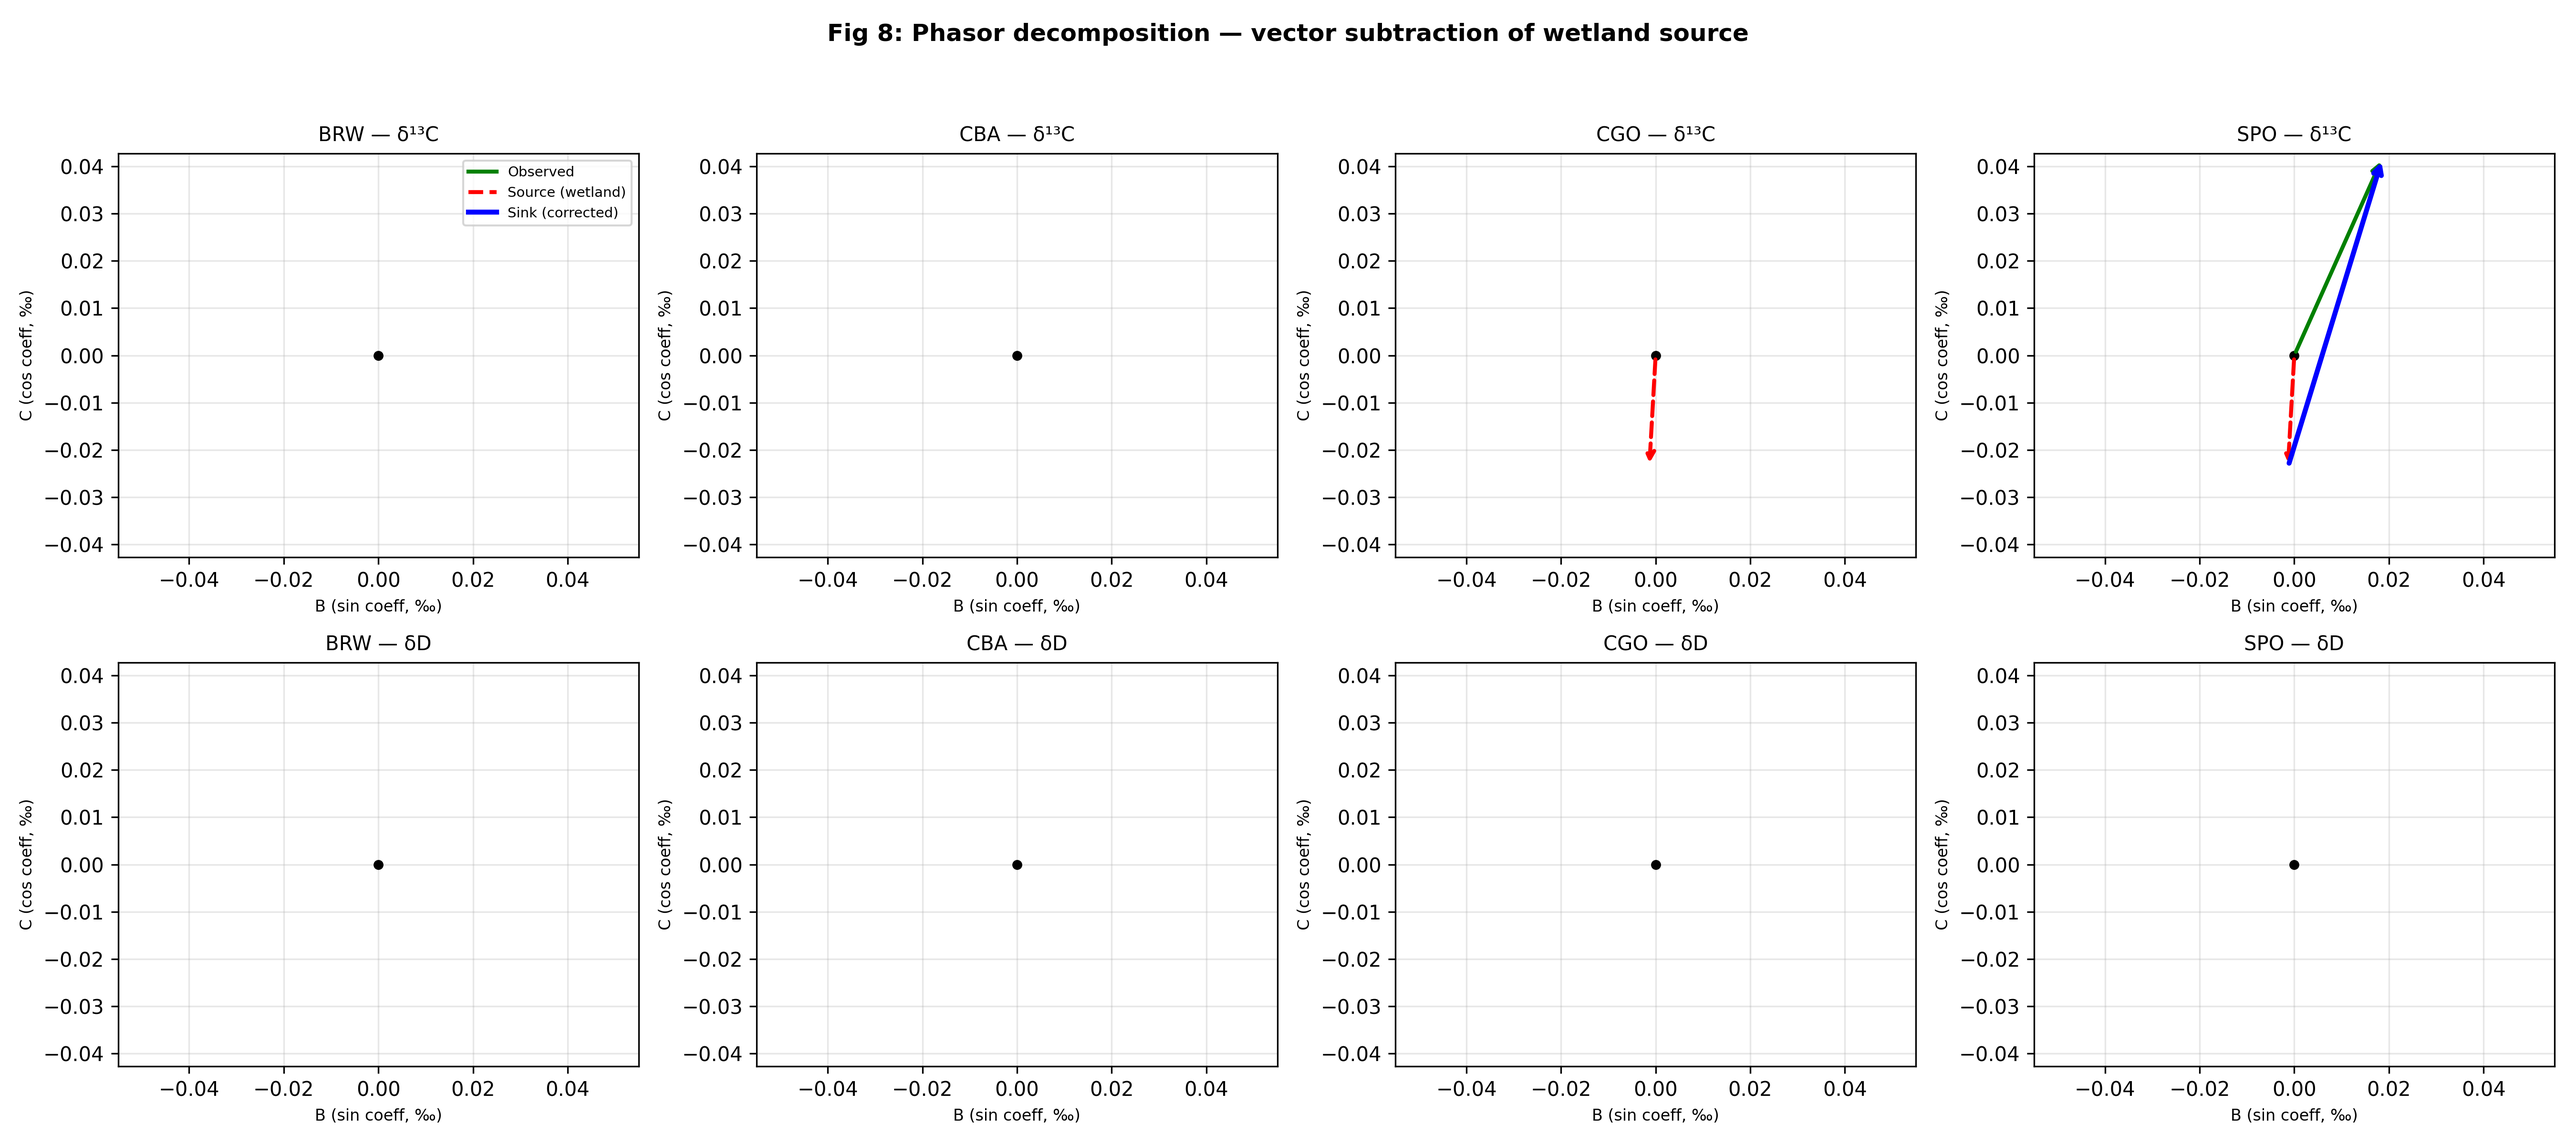
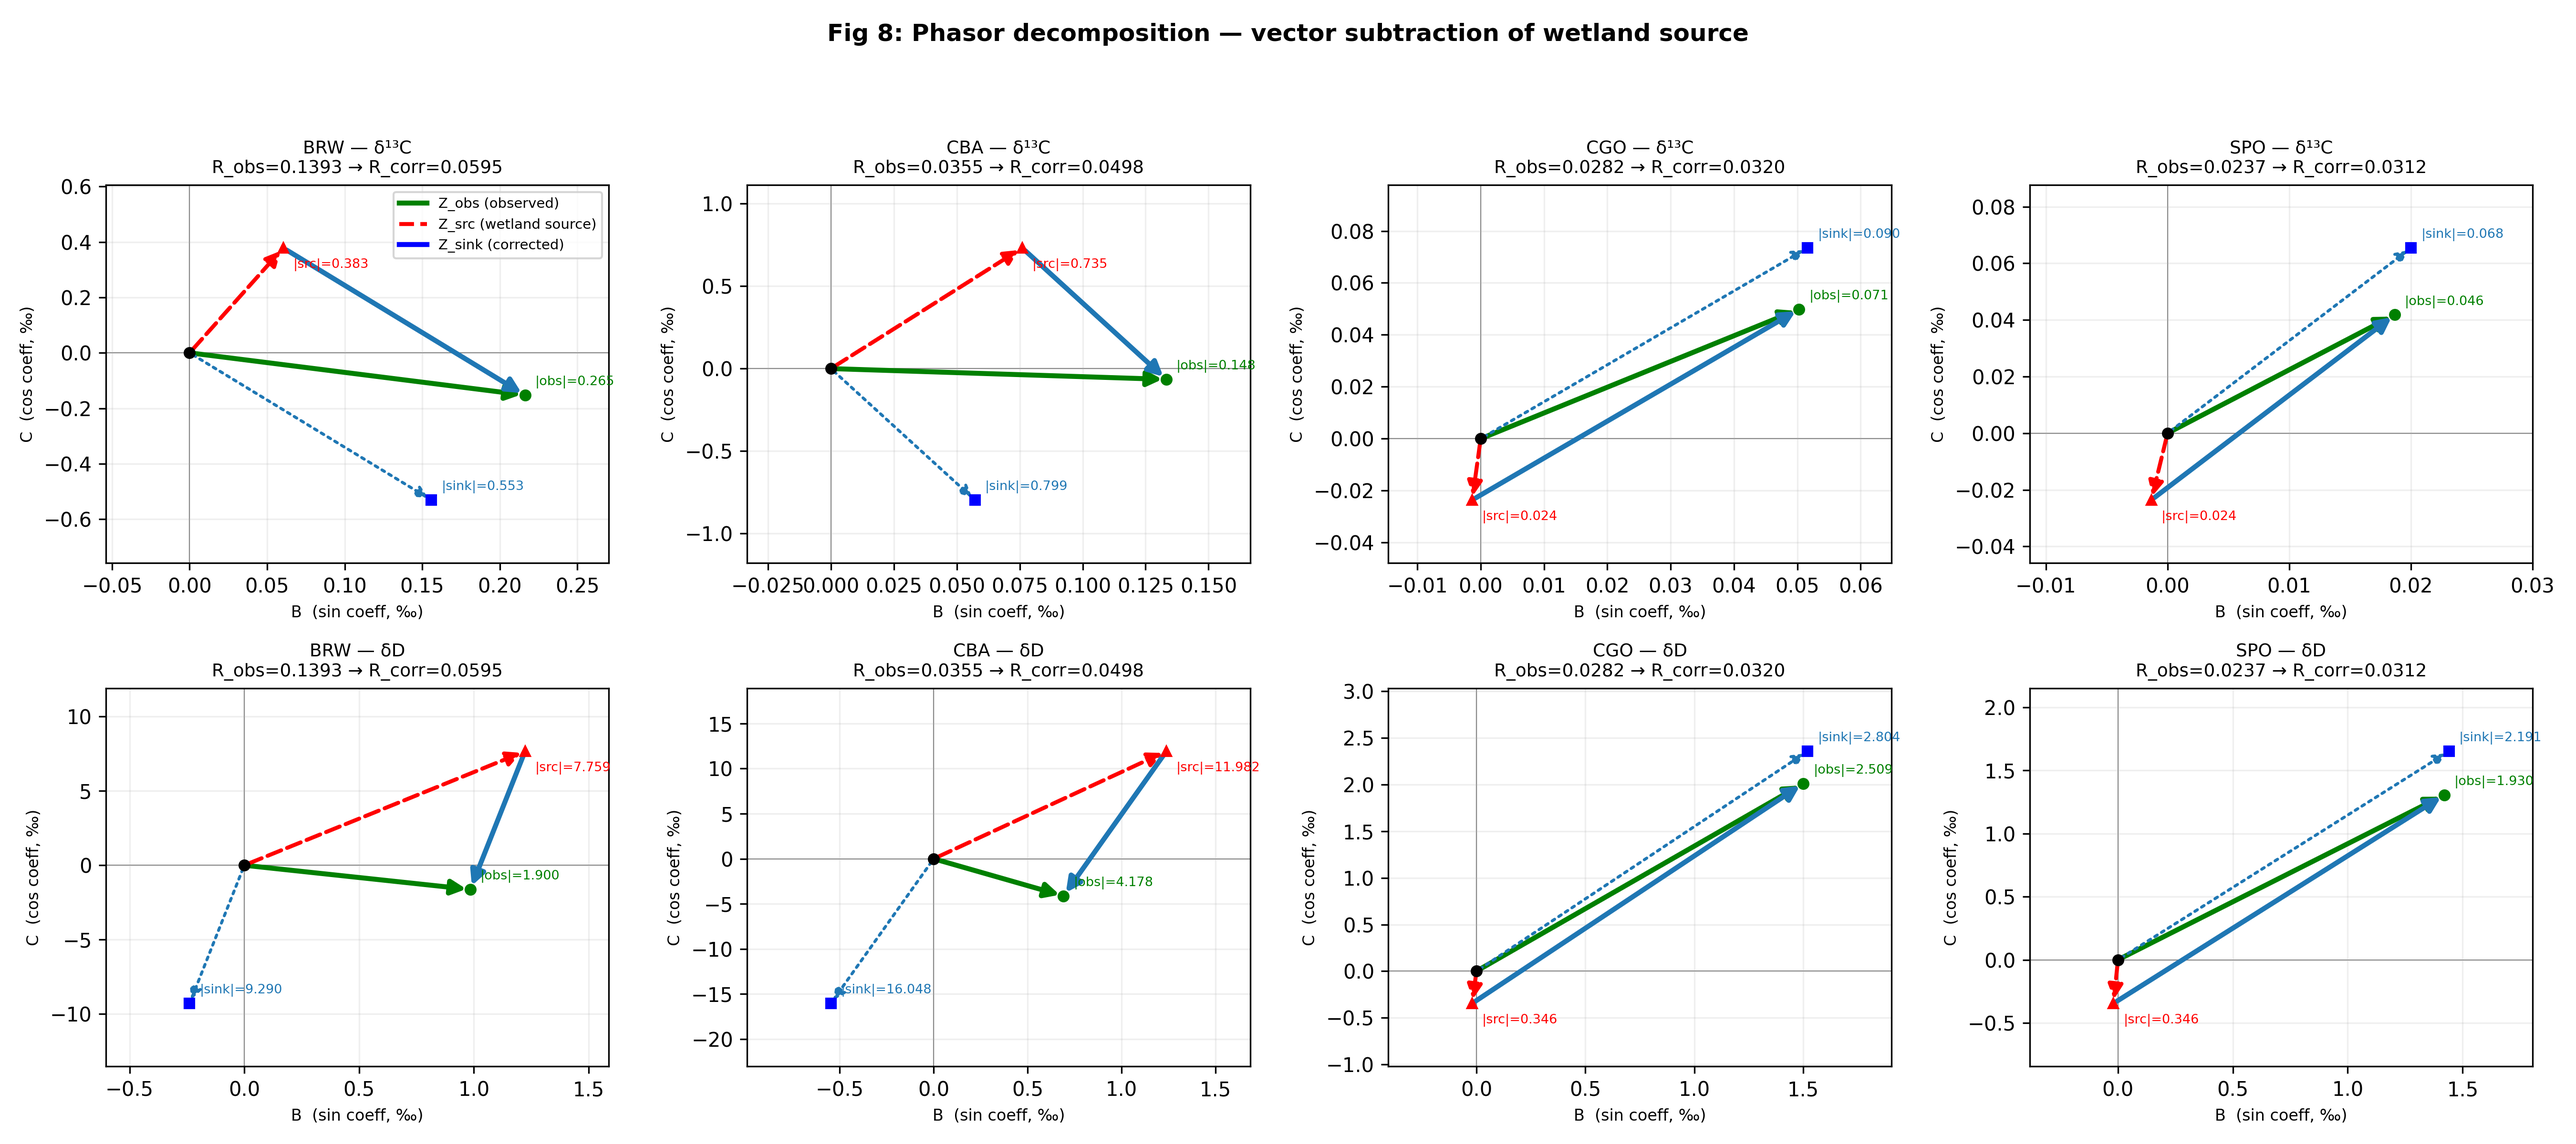
Fix fig8 phasor diagram: auto-scale axes per panel, show all vectors
Old version: set_aspect('equal') forced identical x/y scale, making most
vectors invisible (NH δD sink ~9‰ but axes locked to ±0.04‰).
Fix: remove equal aspect, auto-scale each panel to fit all vector endpoints
with padding, add amplitude labels at vector tips, show R_obs→R_corr in title.

diff --git a/experiments/KIE_sites/analysis/phase6_phasor.py b/experiments/KIE_sites/analysis/phase6_phasor.py
@@ -573,7 +573,14 @@ def main():
 # FIGURE 8: PHASOR VECTOR DIAGRAMS
 # ============================================================================
 def plot_phasor_diagrams(results):
-    """Fig 8: Phasor decomposition for 4 representative sites."""
+    """Fig 8: Phasor decomposition for 4 representative sites.
+
+    Each panel shows three vectors from origin:
+      green  = Z_obs   (observed)
+      red    = Z_src   (wetland source)
+      blue   = Z_sink  (corrected = obs − src), also shown from src tip to obs tip
+    Axes are auto-scaled per panel to fit all vectors.
+    """
     show_sites = ["BRW", "CBA", "CGO", "SPO"]
     available = [s for s in show_sites if s in results["sites"]]
     n = len(available)
@@ -594,42 +601,74 @@ def plot_phasor_diagrams(results):
             Z_src  = s[f"Z_src_{iso}"]
             Z_sink = s[f"Z_sink_{iso}"]
 
-            # Plot vectors: origin → source, source → observed (= sink vector at source tip)
-            # Or equivalently: origin → obs (green), origin → src (red), origin → sink (blue)
-            ox, oy = 0, 0
+            # Collect all endpoints to determine axis limits
+            all_x = [0, Z_obs[0], Z_src[0], Z_sink[0]]
+            all_y = [0, Z_obs[1], Z_src[1], Z_sink[1]]
+            pad_x = max(0.01, (max(all_x) - min(all_x)) * 0.25)
+            pad_y = max(0.01, (max(all_y) - min(all_y)) * 0.25)
 
-            # Observed (green)
-            ax.annotate("", xy=Z_obs, xytext=(ox, oy),
-                        arrowprops=dict(arrowstyle="->", color="green", lw=2))
-            # Source (red)
-            ax.annotate("", xy=Z_src, xytext=(ox, oy),
-                        arrowprops=dict(arrowstyle="->", color="red", lw=2, ls="--"))
-            # Sink = obs − src (blue): from src tip to obs tip
+            # ── Draw vectors as arrows ──
+            hw = 0.04   # relative head width
+
+            # Observed (green): origin → obs
+            ax.annotate("", xy=Z_obs, xytext=(0, 0),
+                        arrowprops=dict(arrowstyle="-|>", color="green", lw=2.5,
+                                        mutation_scale=15))
+            # Source (red dashed): origin → src
+            ax.annotate("", xy=Z_src, xytext=(0, 0),
+                        arrowprops=dict(arrowstyle="-|>", color="red", lw=2,
+                                        mutation_scale=15, linestyle="dashed"))
+            # Sink from origin (blue dotted): origin → sink
+            ax.annotate("", xy=Z_sink, xytext=(0, 0),
+                        arrowprops=dict(arrowstyle="-|>", color="C0", lw=1.5,
+                                        mutation_scale=12, linestyle="dotted"))
+            # Sink as vector addition (blue solid): src tip → obs tip
+            # This shows Z_obs = Z_src + Z_sink visually
             ax.annotate("", xy=Z_obs, xytext=Z_src,
-                        arrowprops=dict(arrowstyle="->", color="blue", lw=2.5))
-            # Also show sink from origin (for clarity)
-            ax.annotate("", xy=Z_sink, xytext=(ox, oy),
-                        arrowprops=dict(arrowstyle="->", color="blue", lw=1.5, ls=":"))
+                        arrowprops=dict(arrowstyle="-|>", color="C0", lw=2.5,
+                                        mutation_scale=15))
 
-            ax.plot(0, 0, "ko", ms=4)
+            # Dot labels at vector tips
+            ax.plot(*Z_obs,  "go", ms=5, zorder=5)
+            ax.plot(*Z_src,  "r^", ms=5, zorder=5)
+            ax.plot(*Z_sink, "bs", ms=5, zorder=5)
+            ax.plot(0, 0, "ko", ms=5, zorder=5)
 
-            # Labels
-            ax.set_xlabel("B (sin coeff, ‰)", fontsize=8)
-            ax.set_ylabel("C (cos coeff, ‰)", fontsize=8)
-            ax.set_title(f"{code} — {label}", fontsize=10)
-            ax.set_aspect("equal", adjustable="datalim")
-            ax.grid(True, alpha=0.3)
+            # Annotate amplitudes
+            A_obs  = np.sqrt(Z_obs[0]**2  + Z_obs[1]**2)
+            A_src  = np.sqrt(Z_src[0]**2  + Z_src[1]**2)
+            A_sink = np.sqrt(Z_sink[0]**2 + Z_sink[1]**2)
 
-            # Legend entries
+            ax.annotate(f"|obs|={A_obs:.3f}", xy=Z_obs, fontsize=6.5,
+                        textcoords="offset points", xytext=(5, 5), color="green")
+            if A_src > 1e-4:
+                ax.annotate(f"|src|={A_src:.3f}", xy=Z_src, fontsize=6.5,
+                            textcoords="offset points", xytext=(5, -10), color="red")
+            ax.annotate(f"|sink|={A_sink:.3f}", xy=Z_sink, fontsize=6.5,
+                        textcoords="offset points", xytext=(5, 5), color="C0")
+
+            # Axis setup — scale to data, NOT equal aspect
+            ax.set_xlim(min(all_x) - pad_x, max(all_x) + pad_x)
+            ax.set_ylim(min(all_y) - pad_y, max(all_y) + pad_y)
+            ax.axhline(0, color="gray", lw=0.5, zorder=0)
+            ax.axvline(0, color="gray", lw=0.5, zorder=0)
+            ax.set_xlabel("B  (sin coeff, ‰)", fontsize=8)
+            ax.set_ylabel("C  (cos coeff, ‰)", fontsize=8)
+            ax.set_title(f"{code} — {label}\n"
+                         f"R_obs={s['R_obs']:.4f} → R_corr={s['R_corrected']:.4f}",
+                         fontsize=9)
+            ax.grid(True, alpha=0.2)
+
+            # Legend (top-left panel only)
             if j == 0 and row == 0:
-                ax.plot([], [], "g-", lw=2, label="Observed")
-                ax.plot([], [], "r--", lw=2, label="Source (wetland)")
-                ax.plot([], [], "b-", lw=2.5, label="Sink (corrected)")
+                ax.plot([], [], "g-",  lw=2.5, label="Z_obs (observed)")
+                ax.plot([], [], "r--", lw=2,   label="Z_src (wetland source)")
+                ax.plot([], [], "b-",  lw=2.5, label="Z_sink (corrected)")
                 ax.legend(fontsize=7, loc="best")
 
     fig.suptitle("Fig 8: Phasor decomposition — vector subtraction of wetland source",
                  fontsize=12, fontweight="bold")
-    fig.tight_layout(rect=[0, 0, 1, 0.95])
+    fig.tight_layout(rect=[0, 0, 1, 0.94])
     out = FIG_DIR / "fig8_phasor_decomposition.png"
     fig.savefig(out, dpi=300)
     plt.close(fig)
